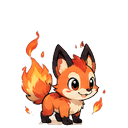
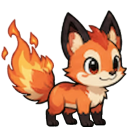
perbaikan rubah api

diff --git a/backup-lama/sprites-data.js b/backup-lama/sprites-data.js
@@ -1,0 +1,312 @@
+// DIBUAT OTOMATIS oleh tools/make_sprites.py. Jangan diedit tangan.
+// fw/fh = ukuran satu frame, iw/ih = ukuran gambar karakter di dalam frame (frame punya bantalan kosong di sekelilingnya).
+const SPR = {
+ "mon1": {
+  "file": "sprites/mon1.webp",
+  "fw": 262,
+  "fh": 236,
+  "iw": 192,
+  "ih": 166,
+  "move": 8,
+  "hit": 3,
+  "die": 5
+ },
+ "mon2": {
+  "file": "sprites/mon2.webp",
+  "fw": 272,
+  "fh": 238,
+  "iw": 200,
+  "ih": 166,
+  "move": 8,
+  "hit": 3,
+  "die": 5
+ },
+ "mon3": {
+  "file": "sprites/mon3.webp",
+  "fw": 212,
+  "fh": 226,
+  "iw": 152,
+  "ih": 166,
+  "move": 8,
+  "hit": 3,
+  "die": 5
+ },
+ "mon4": {
+  "file": "sprites/mon4.webp",
+  "fw": 233,
+  "fh": 228,
+  "iw": 171,
+  "ih": 166,
+  "move": 8,
+  "hit": 3,
+  "die": 5
+ },
+ "mon5": {
+  "file": "sprites/mon5.webp",
+  "fw": 379,
+  "fh": 348,
+  "iw": 279,
+  "ih": 248,
+  "move": 8,
+  "hit": 3,
+  "die": 5
+ },
+ "mon6": {
+  "file": "sprites/mon6.webp",
+  "fw": 280,
+  "fh": 240,
+  "iw": 206,
+  "ih": 166,
+  "move": 8,
+  "hit": 3,
+  "die": 5
+ },
+ "mon7": {
+  "file": "sprites/mon7.webp",
+  "fw": 221,
+  "fh": 226,
+  "iw": 161,
+  "ih": 166,
+  "move": 8,
+  "hit": 3,
+  "die": 5
+ },
+ "mon8": {
+  "file": "sprites/mon8.webp",
+  "fw": 318,
+  "fh": 250,
+  "iw": 234,
+  "ih": 166,
+  "move": 8,
+  "hit": 3,
+  "die": 5
+ },
+ "mon9": {
+  "file": "sprites/mon9.webp",
+  "fw": 266,
+  "fh": 236,
+  "iw": 196,
+  "ih": 166,
+  "move": 8,
+  "hit": 3,
+  "die": 5
+ },
+ "mon10": {
+  "file": "sprites/mon10.webp",
+  "fw": 355,
+  "fh": 310,
+  "iw": 261,
+  "ih": 216,
+  "move": 8,
+  "hit": 3,
+  "die": 5
+ },
+ "mon11": {
+  "file": "sprites/mon11.webp",
+  "fw": 274,
+  "fh": 238,
+  "iw": 202,
+  "ih": 166,
+  "move": 8,
+  "hit": 3,
+  "die": 5
+ },
+ "mon12": {
+  "file": "sprites/mon12.webp",
+  "fw": 323,
+  "fh": 265,
+  "iw": 237,
+  "ih": 179,
+  "move": 8,
+  "hit": 3,
+  "die": 5
+ },
+ "mon13": {
+  "file": "sprites/mon13.webp",
+  "fw": 302,
+  "fh": 216,
+  "iw": 222,
+  "ih": 136,
+  "move": 8,
+  "hit": 3,
+  "die": 5
+ },
+ "mon14": {
+  "file": "sprites/mon14.webp",
+  "fw": 263,
+  "fh": 236,
+  "iw": 193,
+  "ih": 166,
+  "move": 8,
+  "hit": 3,
+  "die": 5
+ },
+ "mon15": {
+  "file": "sprites/mon15.webp",
+  "fw": 297,
+  "fh": 244,
+  "iw": 219,
+  "ih": 166,
+  "move": 8,
+  "hit": 3,
+  "die": 5
+ },
+ "mon16": {
+  "file": "sprites/mon16.webp",
+  "fw": 308,
+  "fh": 248,
+  "iw": 226,
+  "ih": 166,
+  "move": 8,
+  "hit": 3,
+  "die": 5
+ },
+ "mon17": {
+  "file": "sprites/mon17.webp",
+  "fw": 239,
+  "fh": 230,
+  "iw": 175,
+  "ih": 166,
+  "move": 8,
+  "hit": 3,
+  "die": 5
+ },
+ "mon18": {
+  "file": "sprites/mon18.webp",
+  "fw": 319,
+  "fh": 250,
+  "iw": 235,
+  "ih": 166,
+  "move": 8,
+  "hit": 3,
+  "die": 5
+ },
+ "mon19": {
+  "file": "sprites/mon19.webp",
+  "fw": 242,
+  "fh": 230,
+  "iw": 178,
+  "ih": 166,
+  "move": 8,
+  "hit": 3,
+  "die": 5
+ },
+ "mon20": {
+  "file": "sprites/mon20.webp",
+  "fw": 282,
+  "fh": 240,
+  "iw": 208,
+  "ih": 166,
+  "move": 8,
+  "hit": 3,
+  "die": 5
+ },
+ "pet_air1": {
+  "file": "sprites/pet_air1.webp",
+  "fw": 174,
+  "fh": 174,
+  "iw": 128,
+  "ih": 128,
+  "idle": 8,
+  "cast": 6
+ },
+ "pet_air2": {
+  "file": "sprites/pet_air2.webp",
+  "fw": 174,
+  "fh": 174,
+  "iw": 128,
+  "ih": 128,
+  "idle": 8,
+  "cast": 6
+ },
+ "pet_air3": {
+  "file": "sprites/pet_air3.webp",
+  "fw": 174,
+  "fh": 174,
+  "iw": 128,
+  "ih": 128,
+  "idle": 8,
+  "cast": 6
+ },
+ "pet_angin1": {
+  "file": "sprites/pet_angin1.webp",
+  "fw": 174,
+  "fh": 174,
+  "iw": 128,
+  "ih": 128,
+  "idle": 8,
+  "cast": 6
+ },
+ "pet_angin2": {
+  "file": "sprites/pet_angin2.webp",
+  "fw": 174,
+  "fh": 174,
+  "iw": 128,
+  "ih": 128,
+  "idle": 8,
+  "cast": 6
+ },
+ "pet_angin3": {
+  "file": "sprites/pet_angin3.webp",
+  "fw": 174,
+  "fh": 174,
+  "iw": 128,
+  "ih": 128,
+  "idle": 8,
+  "cast": 6
+ },
+ "pet_api1": {
+  "file": "sprites/pet_api1.webp",
+  "fw": 174,
+  "fh": 174,
+  "iw": 128,
+  "ih": 128,
+  "idle": 8,
+  "cast": 6
+ },
+ "pet_api2": {
+  "file": "sprites/pet_api2.webp",
+  "fw": 174,
+  "fh": 174,
+  "iw": 128,
+  "ih": 128,
+  "idle": 8,
+  "cast": 6
+ },
+ "pet_api3": {
+  "file": "sprites/pet_api3.webp",
+  "fw": 174,
+  "fh": 174,
+  "iw": 128,
+  "ih": 128,
+  "idle": 8,
+  "cast": 6
+ },
+ "pet_tanah1": {
+  "file": "sprites/pet_tanah1.webp",
+  "fw": 174,
+  "fh": 174,
+  "iw": 128,
+  "ih": 128,
+  "idle": 8,
+  "cast": 6
+ },
+ "pet_tanah2": {
+  "file": "sprites/pet_tanah2.webp",
+  "fw": 174,
+  "fh": 174,
+  "iw": 128,
+  "ih": 128,
+  "idle": 8,
+  "cast": 6
+ },
+ "pet_tanah3": {
+  "file": "sprites/pet_tanah3.webp",
+  "fw": 174,
+  "fh": 174,
+  "iw": 128,
+  "ih": 128,
+  "idle": 8,
+  "cast": 6
+ }
+};

diff --git a/public/game/js/sprites-data.js b/public/game/js/sprites-data.js
@@ -256,13 +256,13 @@ const SPR = {
   "cast": 6
  },
  "pet_api1": {
-  "file": "sprites/pet_api1.webp",
-  "fw": 174,
+  "file": "sprites/pet_api1.webp?v=fox1",
+  "fw": 272,
   "fh": 174,
-  "iw": 128,
+  "iw": 130,
   "ih": 128,
-  "idle": 8,
-  "cast": 6
+  "idle": 14,
+  "cast": 21
  },
  "pet_api2": {
   "file": "sprites/pet_api2.webp",

diff --git a/tools/make_sprites.py b/tools/make_sprites.py
@@ -24,6 +24,7 @@ OUT = os.environ.get('SPRITE_OUT', os.path.join(ASSETS, 'sprites'))
 DATA_JS = os.environ.get('SPRITE_DATA', os.path.join(ROOT, 'public', 'game', 'js', 'sprites-data.js'))
 PREVIEW = os.environ.get('SPRITE_PREVIEW')            # folder opsional untuk GIF pratinjau
 PI = math.pi
+CUSTOM = {'pet_api1'}   # sprite sheet dibuat dari video (bukan dari tools ini): dilewati kecuali disebut eksplisit, mis. `make_sprites.py pet_api1`
 
 # ------------------------------------------------------------------ MONSTER ----
 # id: (berkas, tinggi tampil terbesar (px game), efek gerak, mode pukulan, jenis mati, tanda pukulan)
@@ -257,7 +258,7 @@ def main():
         os.makedirs(PREVIEW, exist_ok=True)
     want = set(sys.argv[1:])
     meta = {}
-    if want and os.path.exists(DATA_JS):      # generate sebagian: pertahankan data karakter lain
+    if os.path.exists(DATA_JS):      # pertahankan data karakter lain dan karakter CUSTOM
         txt = open(DATA_JS).read()
         meta = json.loads(txt[txt.index('{'):txt.rindex('}') + 1])
     for mid in MON:
@@ -269,7 +270,7 @@ def main():
         print('ok', key, m['fw'], 'x', m['fh'])
     for name in PET:
         k = 'pet_' + name
-        if want and k not in want:
+        if (want and k not in want) or (k in CUSTOM and k not in want):
             continue
         key, m, _ = make_pet(name)
         meta[key] = m
